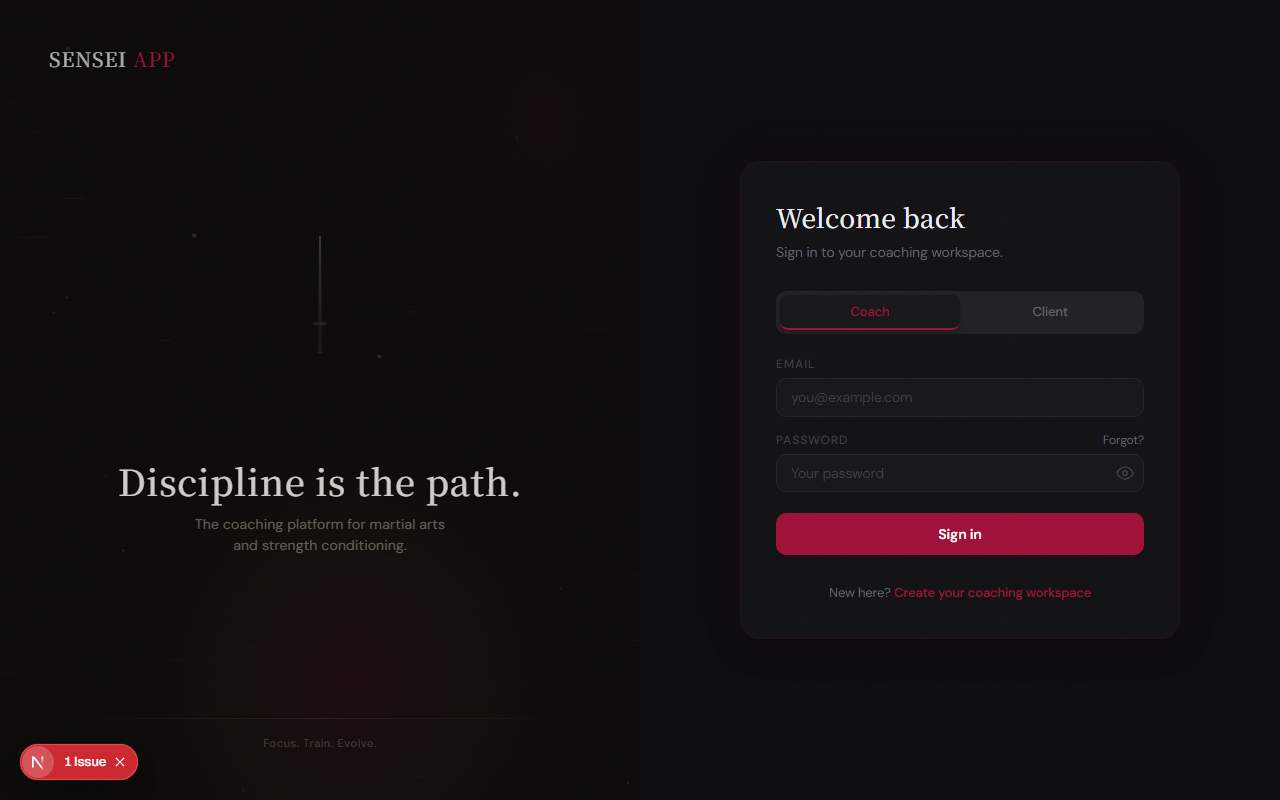
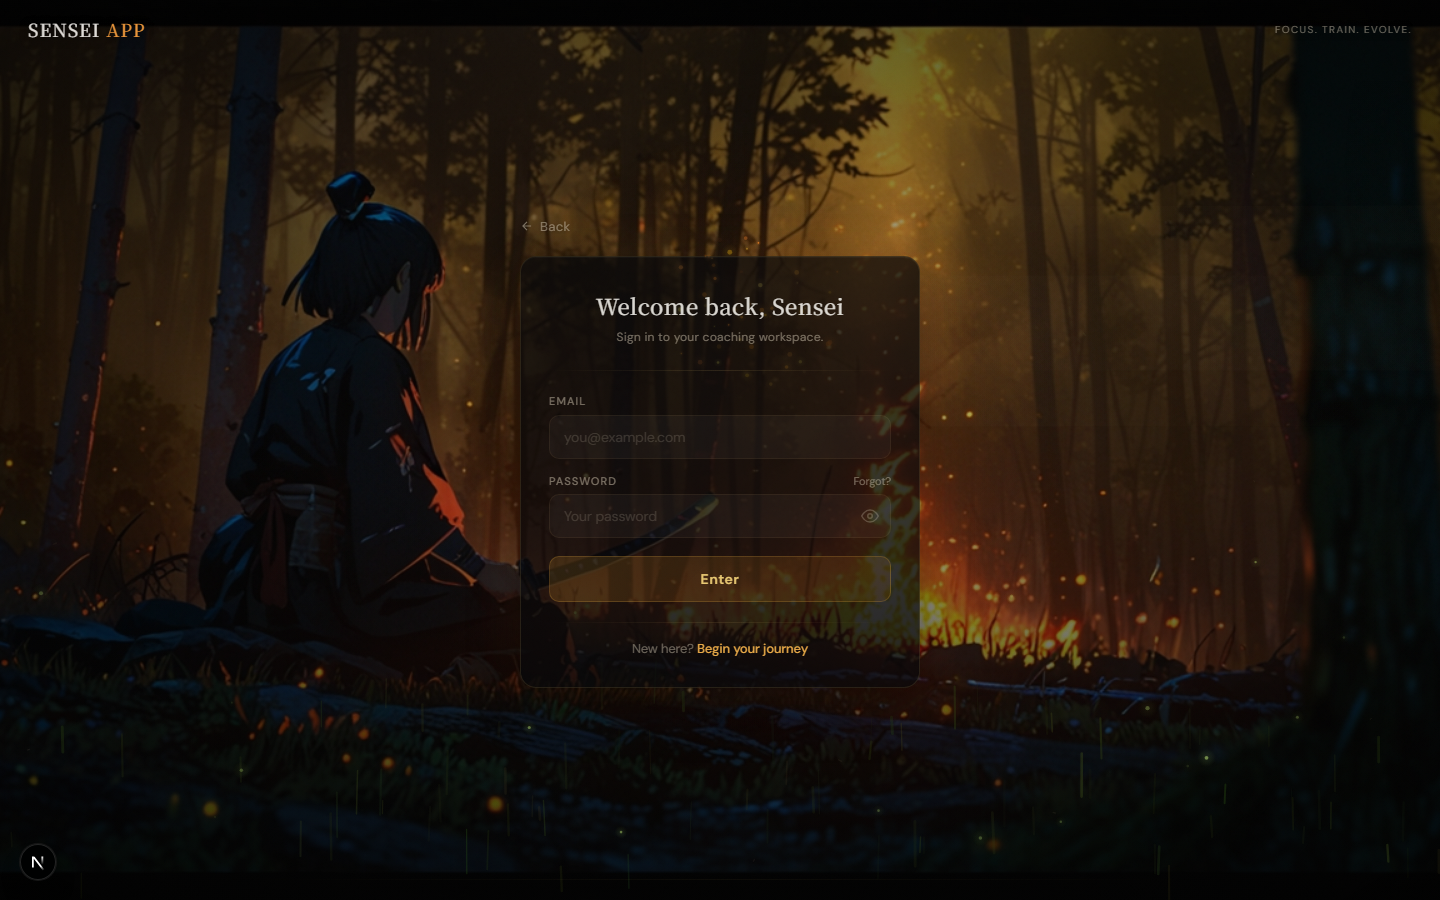
update: Sensei App screenshots — dojo dark theme, new dashboard view
Replaced all portfolio screenshots with current dojo dark theme captures.
Swapped client management for command center dashboard. Updated feature list.

diff --git a/src/app/page.tsx b/src/app/page.tsx
@@ -444,10 +444,10 @@ function Work() {
                 {[
                   "Branded coach portal — their name, their identity",
                   "Client tracking with progress, notes, and session history",
-                  "Built-in scheduling and attendance",
+                  "Built-in scheduling, calendar, and attendance",
                   "Stripe payment processing and revenue tracking",
-                  "Direct coach-to-client messaging",
-                  "Admin dashboard for platform management",
+                  "Video library with Google Drive integration",
+                  "Programs, packages, and assignment management",
                 ].map((item) => (
                   <li key={item} className="flex items-start gap-2 text-sm" style={{ color: "#d0d6e0" }}>
                     <span className="mt-1.5 block h-1.5 w-1.5 flex-shrink-0 rounded-full" style={{ background: "#f7f8f8" }} />
@@ -476,9 +476,9 @@ function Work() {
 
         <div className="grid gap-px sm:grid-cols-2" style={{ background: "rgba(255,255,255,0.05)" }}>
           {[
-            { src: "/portfolio/login-final.png", label: "Branded Login Experience" },
-            { src: "/portfolio/coach-schedule.png", label: "Coach Schedule & Calendar" },
-            { src: "/portfolio/coach-clients.png", label: "Client Management Dashboard" },
+            { src: "/portfolio/login-final.png", label: "Cinematic Login Experience" },
+            { src: "/portfolio/coach-dashboard.png", label: "Command Center Dashboard" },
+            { src: "/portfolio/coach-schedule.png", label: "Schedule & Calendar" },
             { src: "/portfolio/coach-payments.png", label: "Payment & Revenue Tracking" },
           ].map((p) => (
             <div key={p.label} className="group relative overflow-hidden" style={{ background: "#0a0a0a" }}>
